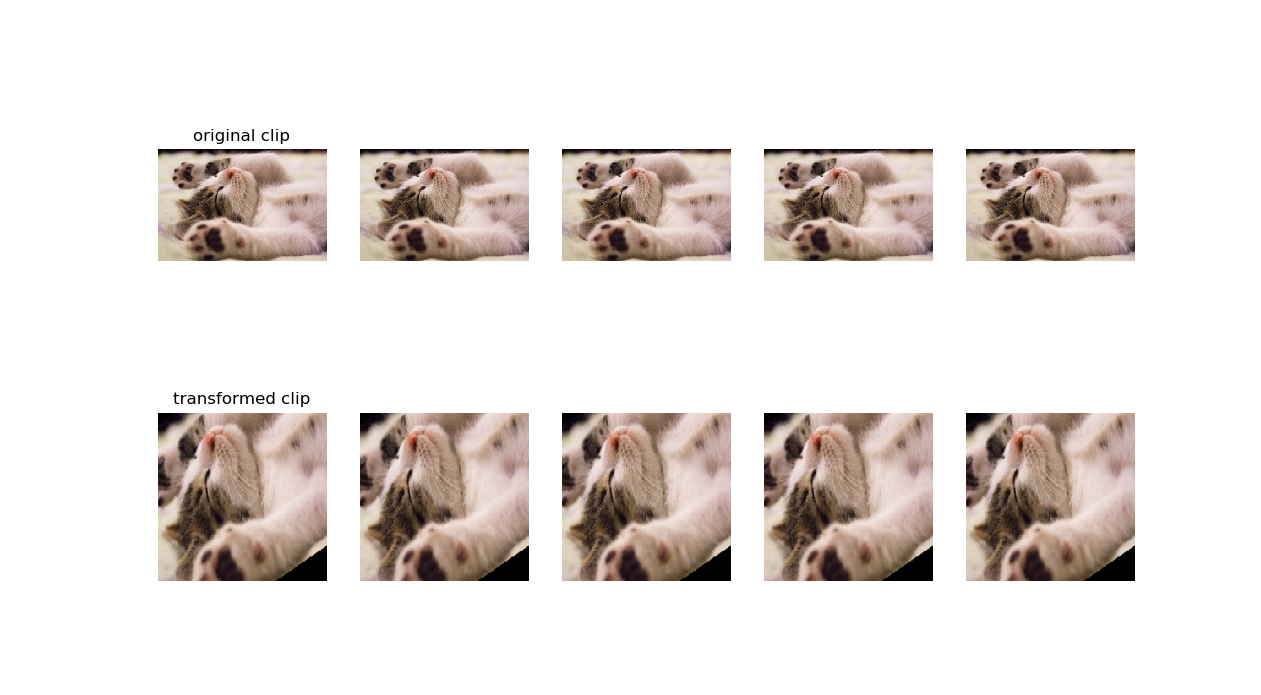
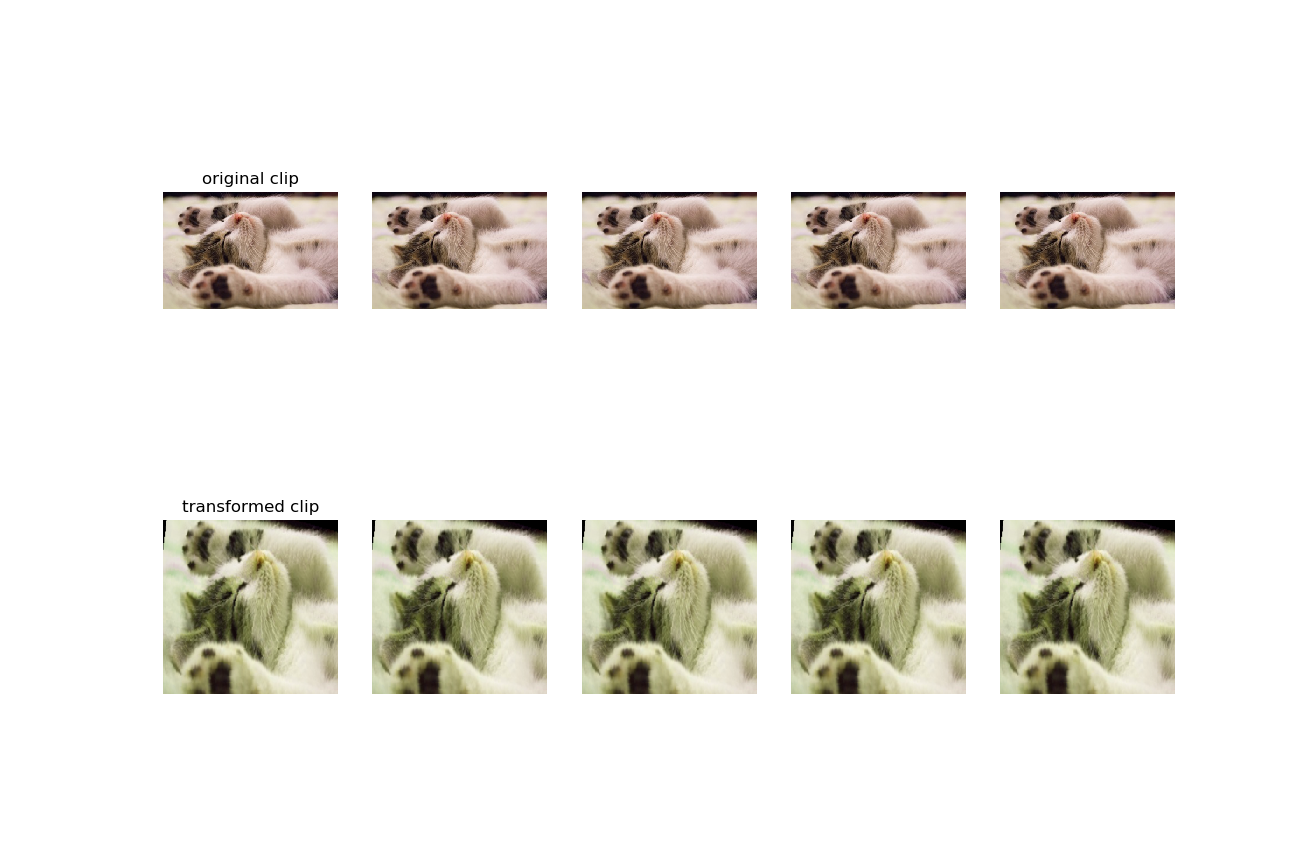
Add color jittering

Changed region(s): [[0.1237, 0.5439, 0.9278, 0.846], [0.1237, 0.1813, 0.8969, 0.3928]]

diff --git a/videotransforms/video_transforms.py b/videotransforms/video_transforms.py
@@ -7,6 +7,7 @@ import numpy as np
 import PIL
 import scipy
 import torch
+import torchvision
 
 from . import functional as F
 
@@ -244,3 +245,88 @@ class CenterCrop(object):
         cropped = F.crop_clip(clip, y1, x1, h, w)
 
         return cropped
+
+
+class ColorJitter(object):
+    """Randomly change the brightness, contrast and saturation and hue of the clip
+
+    Args:
+    brightness (float): How much to jitter brightness. brightness_factor
+    is chosen uniformly from [max(0, 1 - brightness), 1 + brightness].
+    contrast (float): How much to jitter contrast. contrast_factor
+    is chosen uniformly from [max(0, 1 - contrast), 1 + contrast].
+    saturation (float): How much to jitter saturation. saturation_factor
+    is chosen uniformly from [max(0, 1 - saturation), 1 + saturation].
+    hue(float): How much to jitter hue. hue_factor is chosen uniformly from
+    [-hue, hue]. Should be >=0 and <= 0.5.
+    """
+
+    def __init__(self, brightness=0, contrast=0, saturation=0, hue=0):
+        self.brightness = brightness
+        self.contrast = contrast
+        self.saturation = saturation
+        self.hue = hue
+
+    def get_params(self, brightness, contrast, saturation, hue):
+        if brightness > 0:
+            brightness_factor = random.uniform(
+                max(0, 1 - brightness), 1 + brightness)
+        else:
+            brightness_factor = None
+
+        if contrast > 0:
+            contrast_factor = random.uniform(
+                max(0, 1 - contrast), 1 + contrast)
+        else:
+            contrast_factor = None
+
+        if saturation > 0:
+            saturation_factor = random.uniform(
+                max(0, 1 - saturation), 1 + saturation)
+        else:
+            saturation_factor = None
+
+        if hue > 0:
+            hue_factor = random.uniform(-hue, hue)
+        else:
+            hue_factor = None
+        return brightness_factor, contrast_factor, saturation_factor, hue_factor
+
+    def __call__(self, clip):
+        """
+        Args:
+        clip (list): list of PIL.Image
+
+        Returns:
+        list PIL.Image : list of transformed PIL.Image
+        """
+        if isinstance(clip[0], np.ndarray):
+            raise TypeError(
+                'Color jitter not yet implemented for numpy arrays')
+        elif isinstance(clip[0], PIL.Image.Image):
+            brightness, contrast, saturation, hue = self.get_params(
+                self.brightness, self.contrast, self.saturation, self.hue)
+
+            # Create img transform function sequence
+            img_transforms = []
+            if brightness is not None:
+                img_transforms.append(lambda img: torchvision.transforms.functional.adjust_brightness(img, brightness))
+            if saturation is not None:
+                img_transforms.append(lambda img: torchvision.transforms.functional.adjust_saturation(img, saturation))
+            if hue is not None:
+                img_transforms.append(lambda img: torchvision.transforms.functional.adjust_hue(img, hue))
+            if contrast is not None:
+                img_transforms.append(lambda img: torchvision.transforms.functional.adjust_contrast(img, contrast))
+            random.shuffle(img_transforms)
+
+            # Apply to all images
+            jittered_clip = []
+            for img in clip:
+                for func in img_transforms:
+                    jittered_img = func(img)
+                jittered_clip.append(jittered_img)
+
+        else:
+            raise TypeError('Expected numpy.ndarray or PIL.Image' +
+                            'but got list of {0}'.format(type(clip[0])))
+        return jittered_clip

diff --git a/testransforms.py b/testransforms.py
@@ -1,26 +1,48 @@
+import argparse
 import os
 
 from matplotlib import pyplot as plt
 import numpy as np
 from PIL import Image
 
-from videotransforms.video_transforms import Compose, Resize, RandomCrop, RandomRotation
+from videotransforms.video_transforms import Compose, Resize, RandomCrop, RandomRotation, ColorJitter
 from videotransforms.volume_transforms import ClipToTensor
 
 img_path = 'data/cat/cat1.jpeg'
 
+parser = argparse.ArgumentParser()
+parser.add_argument('--brightness', type=float, default=0.5, help='in [0, 1]')
+parser.add_argument('--contrast', type=float, default=0.5, help='in [0, 1]')
+parser.add_argument('--hue', type=float, default=0.25, help='in [0, 0.5]')
+parser.add_argument('--saturation', type=float, default=0.5, help='in [0, 1]')
+parser.add_argument(
+    '--rotation_angle',
+    type=int,
+    default=30,
+    help='Max rotation angle in degrees')
+parser.add_argument(
+    '--scale_size',
+    type=int,
+    default=256,
+    help='Scale smallest clip size to scale_size')
+parser.add_argument(
+    '--clip_size',
+    type=int,
+    default=5,
+    help='Temporal extent of clip (in number of frames)')
+args = parser.parse_args()
+
 # Set transform parameters
-scale_size = (256, 256)
 crop_size = (200, 200)
-max_rotation_angle = 30
 channel_nb = 3
 clip_size = 5
 
 # Initialize transforms
 video_transform_list = [
-    RandomRotation(max_rotation_angle),
-    Resize(scale_size),
+    RandomRotation(args.rotation_angle),
+    Resize(args.scale_size),
     RandomCrop(crop_size),
+    ColorJitter(args.brightness, args.contrast, args.saturation, args.hue),
     ClipToTensor(channel_nb=channel_nb)
 ]
 video_transform = Compose(video_transform_list)

diff --git a/videotransforms/functional.py b/videotransforms/functional.py
@@ -4,6 +4,7 @@ import cv2
 import numpy as np
 import PIL
 from skimage.transform import resize
+import torchvision
 
 
 def crop_clip(clip, min_h, min_w, h, w):

diff --git a/README.md b/README.md
@@ -11,7 +11,17 @@ The idea was to produce the equivalent of [torchvision transforms](https://githu
 The basic paradigm is that dataloading should produce videoclips as a **list of PIL Images or numpy.ndarrays** (in format as read by opencv).
 
 Several transforms are then provided in [video_transforms](videotransforms/video_transforms.py) that expect such inputs.
+
 Each transform iterates on all the images in the list and applies the wanted augmentation.
+So far the following utilities are provided :
+- ColorJitter (acts on brightness, saturation, contrast and hue, only on PIL Images for now)
+- RandomCrop
+- RandomHorizontalFlip
+- RandomResize
+- RandomRotation
+
+- Resize
+- CenterCrop
 
 We then have to convert those inputs to torch tensors.
 This can be produced by the [volume_transform](videotransforms/volume_transforms.py).**ClipToTensor** class, which produces a video volume in format (n_channels, n_images, height, width) where n_channels = 3 in case of images.
